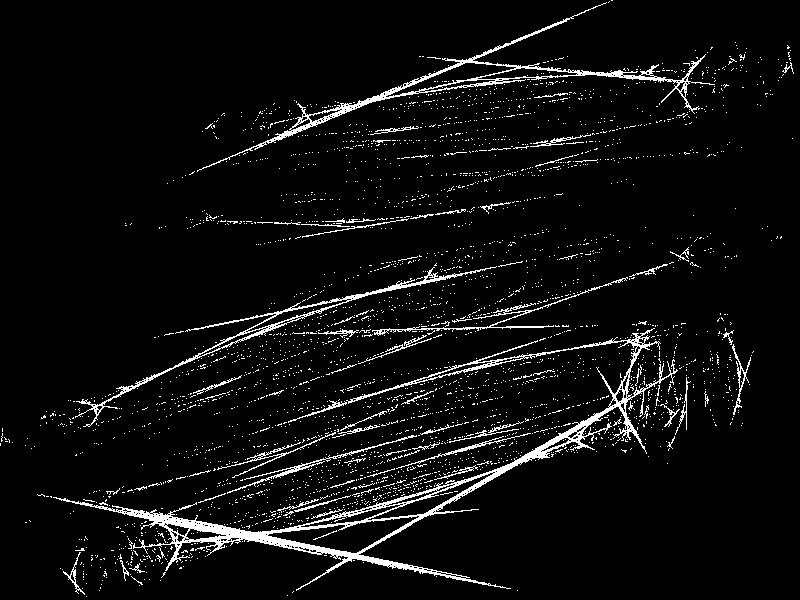
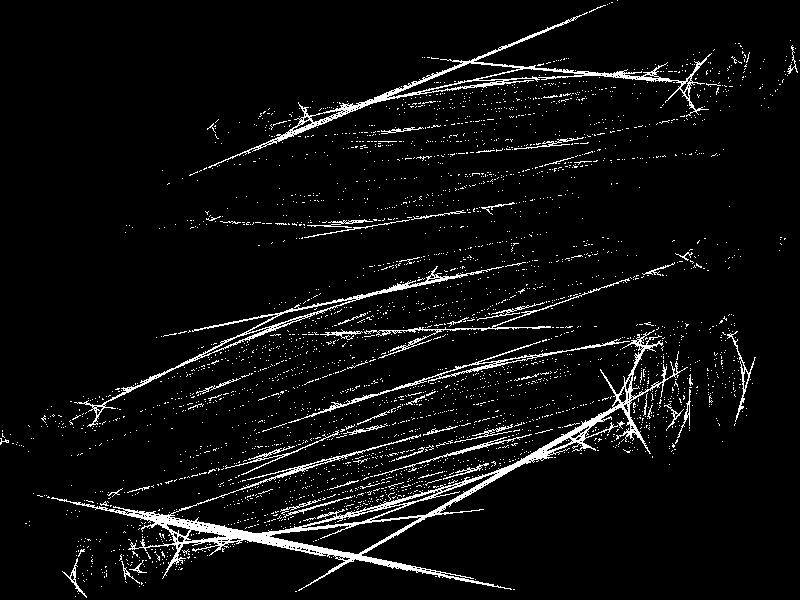
LogDensity

diff --git a/src/main.rs b/src/main.rs
@@ -3,6 +3,7 @@
 use plotters::prelude::*;
 use rand::Rng;
 use rand::distributions::{Distribution, WeightedIndex};
+use std::collections::HashMap;
 
 enum Variation {
     Linear,
@@ -114,17 +115,27 @@ impl IFS {
             (pixel_x, height as i32 - pixel_y) // Inverting y-axis for typical graphical representation
         }).collect()
     }
+
+    fn create_histogram(&self, pixel_points: &[(i32, i32)]) -> HashMap<(i32, i32), u32> {
+        let mut histogram = HashMap::new();
+        for &(x, y) in pixel_points {
+            *histogram.entry((x, y)).or_insert(0) += 1;
+        }
+        histogram
+    }
 }
 
-fn plot_points(points: Vec<(f64, f64)>, width: u32, height: u32) -> Result<(), Box<dyn std::error::Error>> {
-    let root = BitMapBackend::new("fractal_flames2.png", (width, height)).into_drawing_area();
+fn plot_points(histogram: HashMap<(i32, i32), u32>, width: u32, height: u32) -> Result<(), Box<dyn std::error::Error>> {
+    let root = BitMapBackend::new("fractal_flames_density.png", (width, height)).into_drawing_area();
     root.fill(&BLACK)?;
 
-    let ifs = IFS { transforms: vec![] }; // Temporary IFS instance to use transform_to_pixels
-    let pixel_points = ifs.transform_to_pixels(points, width, height);
+    let max_hits = *histogram.values().max().unwrap_or(&1) as f64;
 
-    for &(x, y) in &pixel_points {
-        root.draw_pixel((x, y), &WHITE)?;
+    for (&(x, y), &count) in &histogram {
+        let intensity = (count as f64).ln_1p() / (max_hits.ln_1p());
+        let shade = (intensity * 255.0).round() as u8;
+        let color = RGBColor(shade, shade, shade);
+        root.draw_pixel((x, y), &color)?;
     }
 
     root.present()?;
@@ -197,7 +208,12 @@ fn main() {
 
     let width = 800;
     let height = 600;
-    if let Err(e) = plot_points(points, width, height) {
+    let pixel_points = ifs.transform_to_pixels(points, width, height);
+
+    let histogram = ifs.create_histogram(&pixel_points);
+    println!("{:?}", histogram);
+
+    if let Err(e) = plot_points(histogram, width, height) {
         eprintln!("Error plotting points: {}", e);
     }
 }
